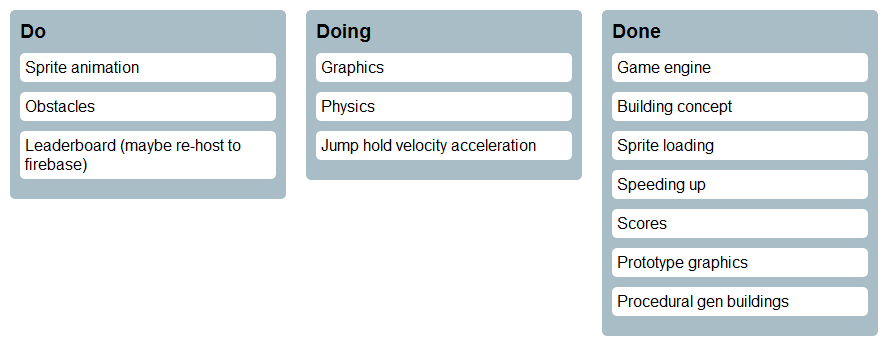
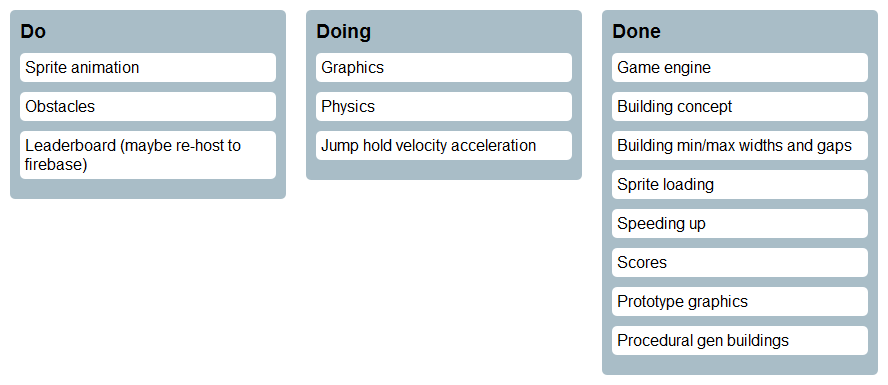
Improving building gaps and widths

Changed region(s): [[0.0, 0.0578, 1.0, 0.9249]]

diff --git a/src/BuildingCollection.js b/src/BuildingCollection.js
@@ -38,8 +38,14 @@ export class BuildingCollection {
   createGaps() {
     // These ingeniously scale up with hero velocity!
     this.gapMax = this.hero.velocity.x * this.hero.furthestJumpDistance;
-    this.gapMin = this.gapMax * 0.2;
+    //this.gapMin = this.gapMax * 0.2;
+    // Buildings are a little too far apart at speed, let's try a smaller gap but wider buildings at min
+    this.gapMin = 30;
     this.gap = this.gapMin + this.gapMax * Math.random() * 0.8;
+    //  30 / (40)  / 500
+    //  30 / (400) / 500
+    this.nearingGapMinFactor =
+      (this.gap - this.gapMin) / (this.gapMax - this.gapMin);
 
     // Test full jump
     // this.gap = this.gapMin = this.gapMax;
@@ -81,10 +87,20 @@ export class BuildingCollection {
     return false;
   }
 
-  createNewBuilding() {
+  createNewBuilding(hero) {
     // console.log('createNewBuilding');
+
+    // Scale building size up a little if they're super nearby, but only at speed
+    // let width = 100 + Math.random() * Pixi.width;
+    let widthMin = hero.velocity.x * 400;
+    let widthMax = 500 + hero.velocity.x * 1500;
+    let width = widthMin + Math.random() * (widthMax - widthMin);
+    // width = widthMax; // test specific width
+    width = Math.round(width);
+
     let building = new Building({
       texture: this.texture,
+      width: width,
       offsetY: this.offsetY
     });
     this.collection.push(building);
@@ -104,7 +120,7 @@ export class BuildingCollection {
     //   this.createNewBuilding();
     // });
     if (this.shouldCreateNewBuilding()) {
-      this.createNewBuilding();
+      this.createNewBuilding(hero);
     }
 
     this.collection.forEach((building, i) => {

diff --git a/src/Hero.js b/src/Hero.js
@@ -137,7 +137,7 @@ export class Hero {
       // this.velocity.y = 0;
       // Slow jump right down instead
       // this.velocity.y *= 0.5;
-      console.log(this.velocity.y / this.jumpVelocity); // 1 -> 0 (lowest to highest vertically)
+      //console.log(this.velocity.y / this.jumpVelocity); // 1 -> 0 (lowest to highest vertically)
       // When purposefully stopping jumping, scale it so that if you're near the ground you move straight back down
       // but if high up in the jump, you move down less quickly..
       // allowing little bunny hops. effect lessened though by magic multiplier so you feel purposeful falls from height

diff --git a/src/Building.js b/src/Building.js
@@ -8,7 +8,7 @@ export default class Building {
 
     this.width = this.sprite.width =
       options.width || 100 + Math.random() * Pixi.width;
-    this.height = this.sprite.height = options.height || 1000;
+    this.height = this.sprite.height = options.height || Pixi.height; // optimisation - y offset based height
     this.sprite.anchor.x = 0;
     this.sprite.anchor.y = 0;
     this.offsetY = options.offsetY || 0;

diff --git a/src/PixiCreate.js b/src/PixiCreate.js
@@ -4,8 +4,8 @@ class Pixi {
   constructor() {
     this.engine = PIXILIB;
     this.app = new this.engine.Application({
-      width: 1440,
-      height: 900
+      width: 1600,
+      height: 800
     });
   }
   get width() {

diff --git a/README.md b/README.md
@@ -28,6 +28,7 @@
 # Done
 - Game engine
 - Building concept
+- Building min/max widths and gaps
 - Sprite loading
 - Speeding up
 - Scores
@@ -41,3 +42,5 @@ KANBAN--->
   boost. Why not? I've built it with legit velocities..
 * Power ups in general
 * Kill teh enemiez, Mario style?
+* Difficulty modes - e.g. Hardest would use _almost_ only gapMax and widthMin
+  for buildings
